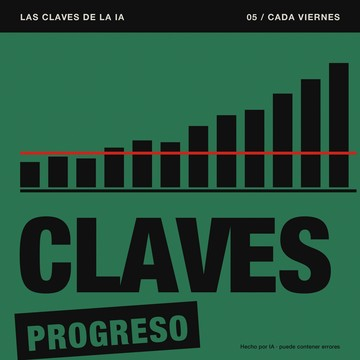
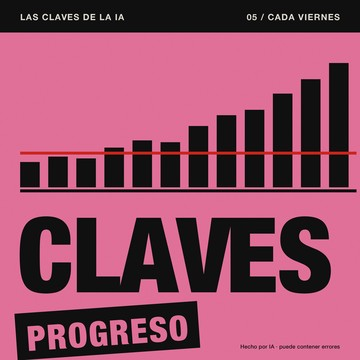
Claves progreso: portada y miniatura en rosa (mismo diseño)

diff --git a/scripts/portadas.py b/scripts/portadas.py
@@ -27,6 +27,7 @@ PESOS = {"Regular": 0, "Bold": 1, "Medium": 10, "CondensedBold": 4, "CondensedBl
 PAPEL, TINTA, GRIS = (233, 228, 218), (17, 17, 17), (176, 172, 164)
 ROJO, AMARILLO, AZUL = (215, 38, 30), (242, 205, 46), (44, 84, 166)
 VERDE = (46, 122, 86)
+ROSA = (236, 118, 160)
 AVISO = "Hecho por IA · puede contener errores"
 
 SERIES = {
@@ -39,7 +40,7 @@ SERIES = {
 }
 
 # Claves progreso (viernes): serie de barras que sube con un comparador plano (nombre: «Claves progreso»).
-SERIES["progreso"] = {"n": "05", "titulo": "Claves", "sub": "progreso", "dia": "Cada viernes", "color": VERDE, "tinta": TINTA,
+SERIES["progreso"] = {"n": "05", "titulo": "Claves", "sub": "progreso", "dia": "Cada viernes", "color": ROSA, "tinta": TINTA,
                      "lema": "Una mejora medida y una persona"}
 
 # Especiales: propuestas para que Cristian elija (8 oct 2026). Eligió «negro-lupa» (SERIES["especial"], al final).

diff --git a/PASOS_CRISTIAN.md b/PASOS_CRISTIAN.md
@@ -131,7 +131,7 @@ la fusiona quien tenga la firma, con la suite en verde (`python3 -m unittest dis
    mensual de esa voz está en `config/programas.json` (`voces.gemini.tope_caracteres_mes`, 600.000) y el
    presupuesto de Google (paso 7 de la sección de la voz Gemini). Mira el gasto del mes tras el primer viernes.
 4. **Portadas.** `assets/portadas/progreso.png` y `assets/miniaturas/progreso.jpg` son una propuesta (barras que suben
-   sobre una línea plana, en verde). Para YouTube hay que subirla en la lista del feed `progreso.xml`; el banner no
+   sobre una línea plana, en rosa desde el 11 oct). Para YouTube hay que subirla en la lista del feed `progreso.xml`; el banner no
    se ha tocado. Si prefieres otro color o motivo: `python3 scripts/portadas.py --serie progreso` con Pillow.
 5. **Alta de la lista en YouTube Studio** con el feed `https://claves.cristiansdrojek.com/progreso.xml`, igual que
    los otros programas, cuando salga el primer episodio.
